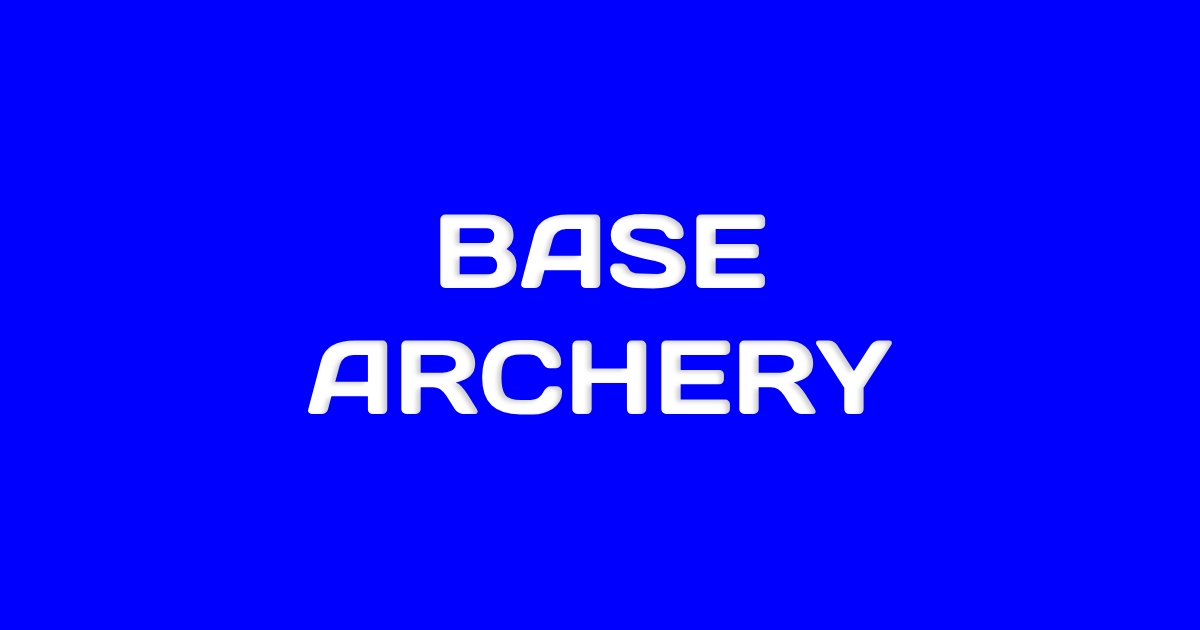
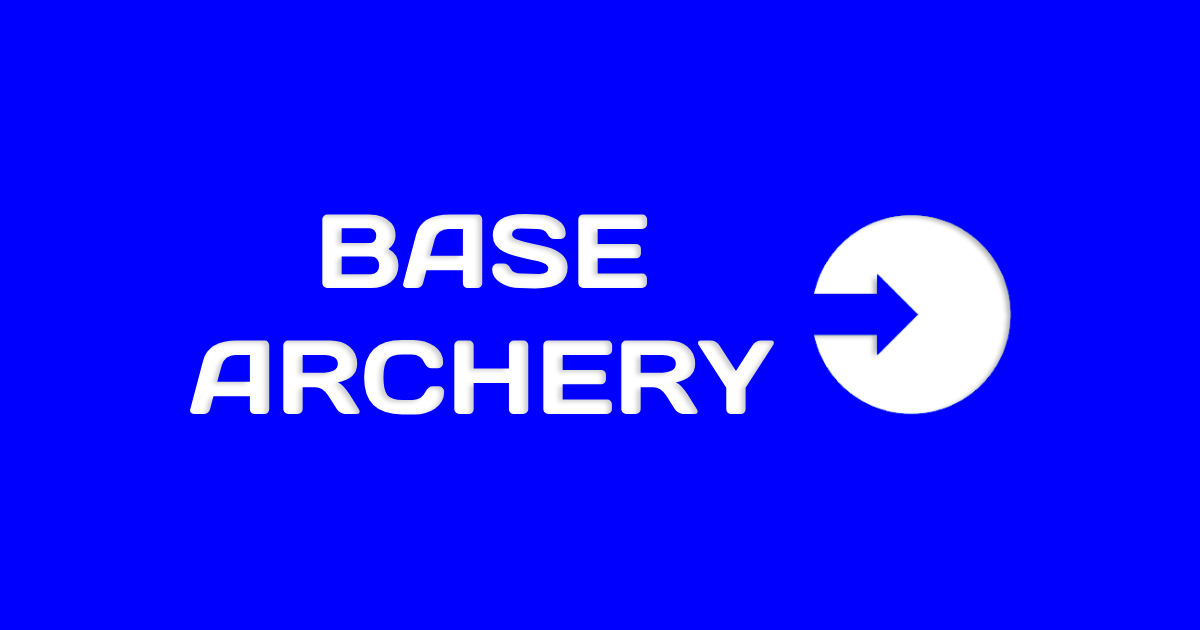
Some fixes

Changed region(s): [[0.1542, 0.3317, 0.8633, 0.6635], [0.2467, 0.3317, 0.6475, 0.4825]]

diff --git a/components/Game.tsx b/components/Game.tsx
@@ -566,39 +566,36 @@ export default function Game() {
       />
 
       <div className="absolute inset-0 pointer-events-none flex flex-col" style={{ zIndex: 10 }}>
-        <div className="top-bar pointer-events-auto flex items-center justify-between px-4 py-3">
-          <h1 className={`text-lg font-black font-orbitron tracking-wider ${currentTheme === 'dark' ? 'text-white' : 'text-[#0000ff]'}`}>
-            BASE ARCHERY
-          </h1>
-          <button
-            onClick={toggleTheme}
-            className={`w-10 h-10 rounded-full flex items-center justify-center ${currentTheme === 'dark' ? 'bg-white/10 text-white' : 'bg-blue-100 text-blue-600'}`}
-          >
-            <svg className="w-5 h-5" fill="currentColor" viewBox="0 0 20 20">
+        {/* Top Bar */}
+        <div className={`top-bar flex justify-between items-center px-4 py-4 pt-[calc(15px+env(safe-area-inset-top))] backdrop-blur-md border-b transition-colors duration-300 flex-shrink-0 pointer-events-auto ${currentTheme === 'light' ? 'bg-white/85 border-blue-600/10' : 'bg-[#000020]/85 border-white/10'}`}>
+          <div className="font-orbitron font-black text-lg flex items-center gap-2 uppercase tracking-wide flex-shrink-0">
+            BASE <span className="text-[#0000ff]">ARCHERY</span>
+          </div>
+          <div className="flex gap-2 items-center flex-shrink-0 min-w-0">
+            <button onClick={toggleTheme} className="p-2 rounded-full hover:bg-gray-500/10 transition-colors flex items-center justify-center">
               {currentTheme === 'dark' ? (
-                <path fillRule="evenodd" d="M10 2a1 1 0 011 1v1a1 1 0 11-2 0V3a1 1 0 011-1zm4 8a4 4 0 11-8 0 4 4 0 018 0zm-.464 4.95l.707.707a1 1 0 001.414-1.414l-.707-.707a1 1 0 00-1.414 1.414zm2.12-10.607a1 1 0 010 1.414l-.706.707a1 1 0 11-1.414-1.414l.707-.707a1 1 0 011.414 0zM17 11a1 1 0 100-2h-1a1 1 0 100 2h1zm-7 4a1 1 0 011 1v1a1 1 0 11-2 0v-1a1 1 0 011-1zM5.05 6.464A1 1 0 106.465 5.05l-.708-.707a1 1 0 00-1.414 1.414l.707.707zm1.414 8.486l-.707.707a1 1 0 01-1.414-1.414l.707-.707a1 1 0 011.414 1.414zM4 11a1 1 0 100-2H3a1 1 0 000 2h1z" clipRule="evenodd" />
+                <svg xmlns="http://www.w3.org/2000/svg" width="22" height="22" viewBox="0 0 24 24" fill="white" stroke="currentColor" strokeWidth="2" strokeLinecap="round" strokeLinejoin="round" className="feather feather-sun"><circle cx="12" cy="12" r="5"/><line x1="12" y1="1" x2="12" y2="3"/><line x1="12" y1="21" x2="12" y2="23"/><line x1="4.22" y1="4.22" x2="5.64" y2="5.64"/><line x1="18.36" y1="18.36" x2="19.78" y2="19.78"/><line x1="1" y1="12" x2="3" y2="12"/><line x1="21" y1="12" x2="23" y2="12"/><line x1="4.22" y1="19.78" x2="5.64" y2="18.36"/><line x1="18.36" y1="5.64" x2="19.78" y2="4.22"/></svg>
               ) : (
-                <path d="M17.293 13.293A8 8 0 016.707 2.707a8.001 8.001 0 1010.586 10.586z" />
+                <svg xmlns="http://www.w3.org/2000/svg" width="22" height="22" viewBox="0 0 24 24" fill="none" stroke="black" strokeWidth="2" strokeLinecap="round" strokeLinejoin="round" className="feather feather-moon"><path d="M21 12.79A9 9 0 1 1 11.21 3 7 7 0 0 0 21 12.79z"></path></svg>
               )}
-            </svg>
-          </button>
-          {renderProfile()}
+            </button>
+            {renderProfile()}
+          </div>
         </div>
 
+        {/* Stats Overlay */}
         <div className="game-stats pointer-events-auto flex items-center justify-between px-4 mt-2">
           <button
             onClick={() => openModal('leaderboard')}
             className={`w-11 h-11 rounded-full flex justify-center items-center backdrop-blur-sm border active:scale-90 transition-transform ${currentTheme === 'light' ? 'bg-blue-100/50 border-blue-200 text-blue-600' : 'bg-black/50 border-white/10 text-white'}`}
           >
-            <svg className="w-5 h-5" fill="currentColor" viewBox="0 0 20 20">
-              <path d="M2 11a1 1 0 011-1h2a1 1 0 011 1v5a1 1 0 01-1 1H3a1 1 0 01-1-1v-5zM8 7a1 1 0 011-1h2a1 1 0 011 1v9a1 1 0 01-1 1H9a1 1 0 01-1-1V7zM14 4a1 1 0 011-1h2a1 1 0 011 1v12a1 1 0 01-1 1h-2a1 1 0 01-1-1V4z" />
-            </svg>
+            <svg xmlns="http://www.w3.org/2000/svg" width="20" height="20" viewBox="0 0 24 24" fill="none" stroke="currentColor" strokeWidth="2" strokeLinecap="round" strokeLinejoin="round" className="feather feather-award"><circle cx="12" cy="8" r="7"/><polyline points="8.21 13.89 7 23 12 20 17 23 15.79 13.88"/></svg>
           </button>
-          <div className="flex flex-col items-center">
+          <div className={`flex flex-col items-center justify-center px-6 py-2 rounded-2xl backdrop-blur-sm border ${currentTheme === 'light' ? 'bg-blue-100/50 border-blue-200' : 'bg-black/50 border-white/10'}`}>
             <div className={`text-sm font-bold font-orbitron ${currentTheme === 'dark' ? 'text-white' : 'text-[#0000ff]'}`}>
               LEVEL {level}
             </div>
-            <div className={`text-xs font-roboto ${currentTheme === 'dark' ? 'text-white/70' : 'text-blue-700/70'}`}>
+            <div className={`text-xs font-roboto ${currentTheme === 'dark' ? 'text-white/70' : 'text-[#0000ff]/70'}`}>
               {arrowsLeft} ARROWS
             </div>
           </div>
@@ -606,9 +603,7 @@ export default function Game() {
             onClick={() => openModal('faq')}
             className={`w-11 h-11 rounded-full flex justify-center items-center backdrop-blur-sm border active:scale-90 transition-transform ${currentTheme === 'light' ? 'bg-blue-100/50 border-blue-200 text-blue-600' : 'bg-black/50 border-white/10 text-white'}`}
           >
-            <svg className="w-5 h-5" fill="currentColor" viewBox="0 0 20 20">
-              <path fillRule="evenodd" d="M18 10a8 8 0 11-16 0 8 8 0 0116 0zm-8-3a1 1 0 00-.867.5 1 1 0 11-1.731-1A3 3 0 0113 8a3.001 3.001 0 01-2 2.83V11a1 1 0 11-2 0v-1a1 1 0 011-1 1 1 0 100-2zm0 8a1 1 0 100-2 1 1 0 000 2z" clipRule="evenodd" />
-            </svg>
+            <svg xmlns="http://www.w3.org/2000/svg" width="20" height="20" viewBox="0 0 24 24" fill="none" stroke="currentColor" strokeWidth="2" strokeLinecap="round" strokeLinejoin="round" className="feather feather-help-circle"><circle cx="12" cy="12" r="10"/><path d="M9.09 9a3 3 0 0 1 5.83 1c0 2-3 3-3 3"/><line x1="12" y1="17" x2="12.01" y2="17"/></svg>
           </button>
         </div>
 
